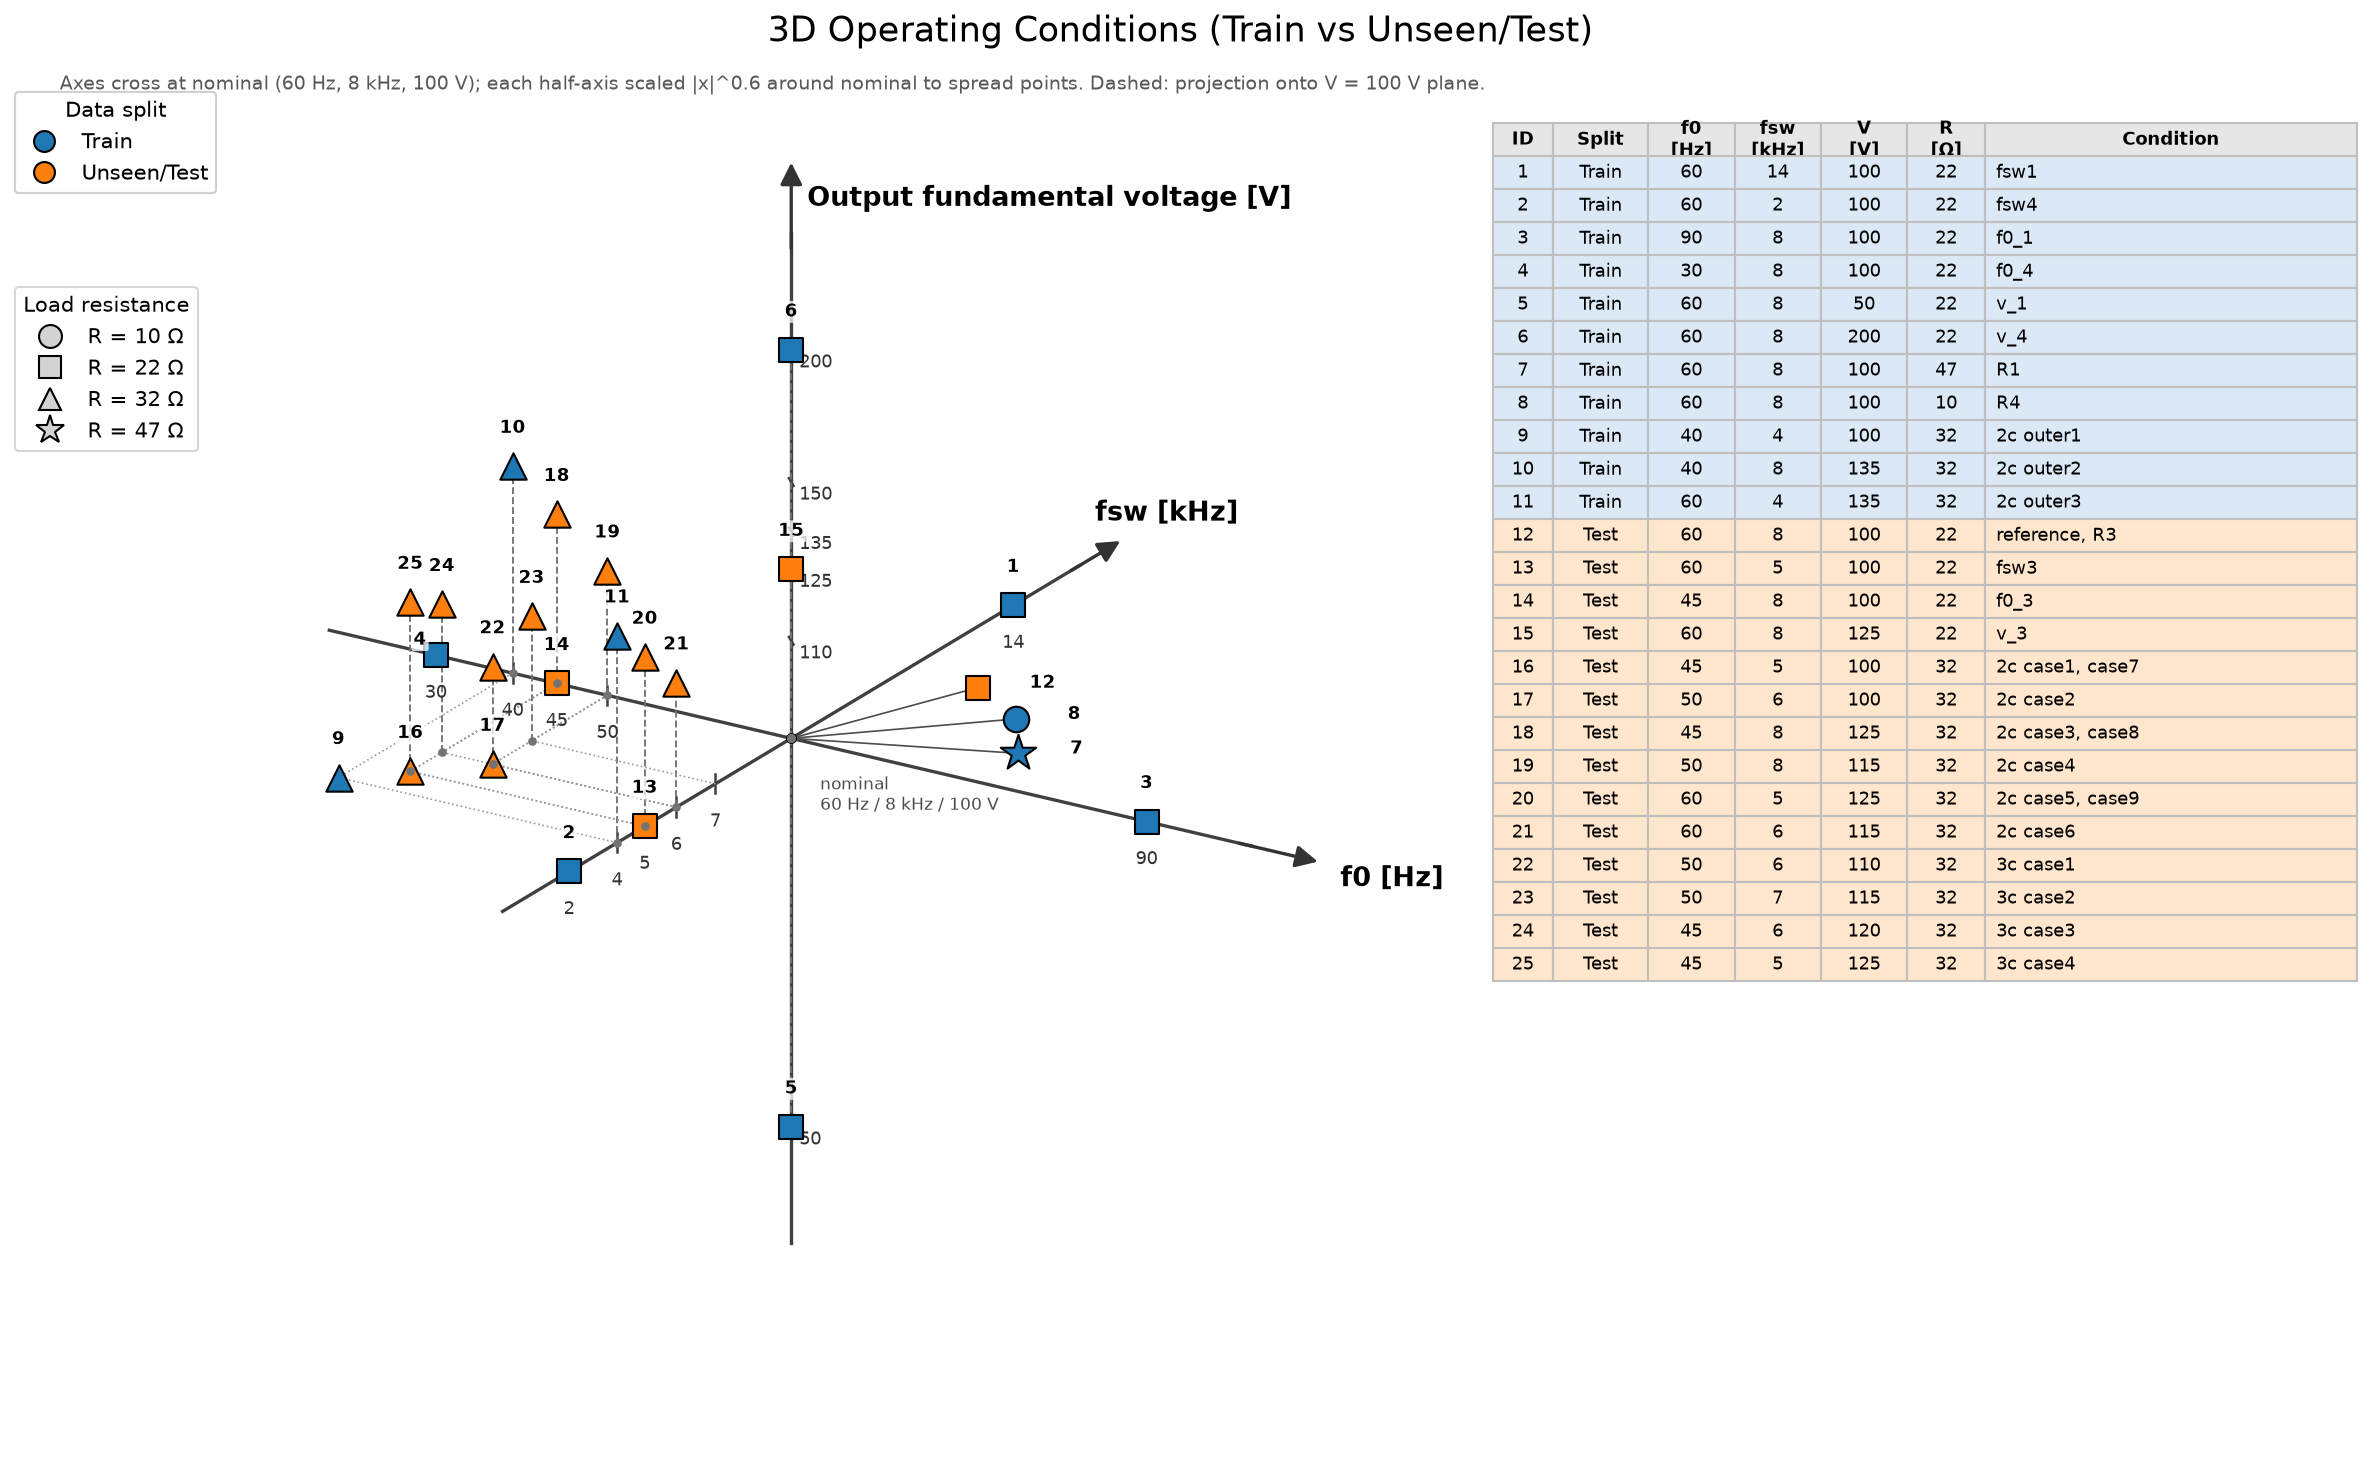
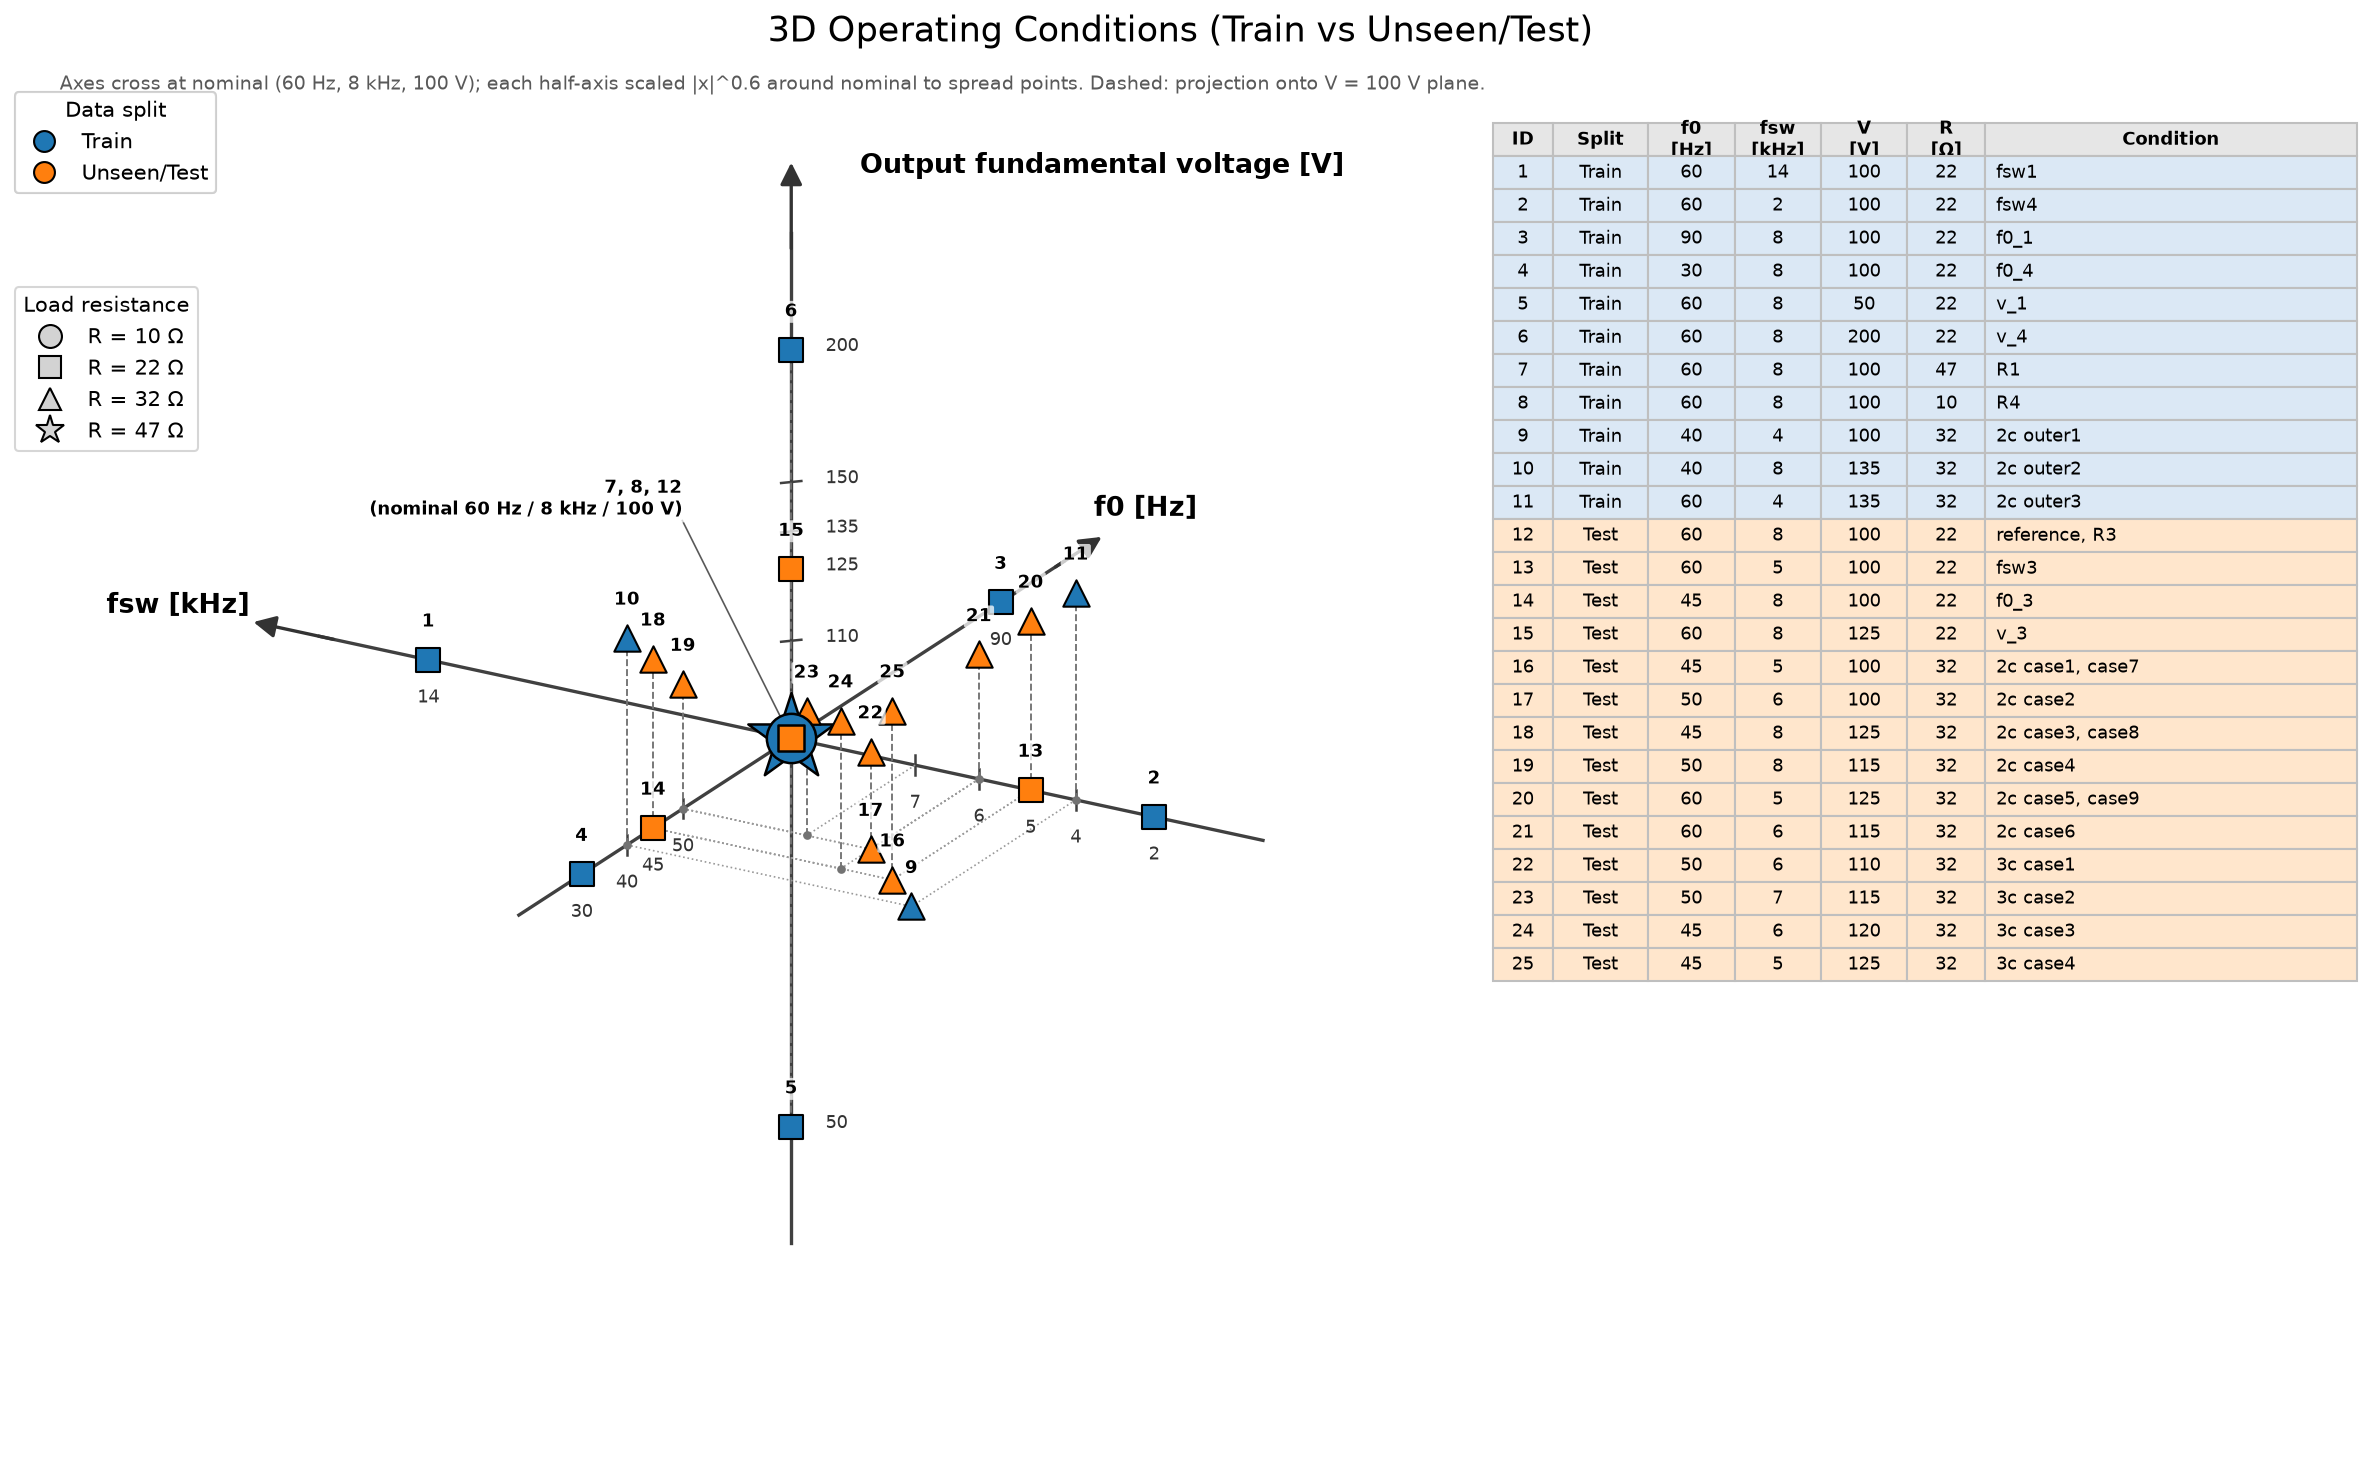
3D condition map: stack nominal points at origin, view from low-f0/low-fsw quadrant
Points 7, 8, 12 (R = 47/10/22 ohm at nominal) are now drawn on top of each
other at the origin with decreasing marker size instead of being fanned
out, and the view is rotated to the f0 = 30 Hz / fsw = 2 kHz side.

Claude-Session: https://claude.ai/code/session_011spFXYcNV3BZ4AwDtwhMgw

diff --git a/workspace/results/plot_operating_conditions_3d.py b/workspace/results/plot_operating_conditions_3d.py
@@ -33,10 +33,10 @@ from mpl_toolkits.mplot3d import proj3d
 # ----------------------------------------------------------------------------
 OUT_PATH = os.path.join(os.path.dirname(os.path.abspath(__file__)), "3d_projection.png")
 SPREAD_GAMMA = 0.6          # 1.0 = linear, < 1 spreads points near nominal
-VIEW_ELEV, VIEW_AZIM = 22, -58
-FAN_SPAN_DEG = (22, 68)      # fan direction range in the f0-fsw plane (empty +f0/+fsw quadrant)
-FAN_RADIUS = 0.55
-LABEL_SIDE = {4: "left"}  # per-ID label position override (default: above)          # offset for coincident points (normalized units)
+VIEW_ELEV, VIEW_AZIM = 22, -150   # viewed from the f0 = 30 Hz / fsw = 2 kHz quadrant
+STACK_SIZES = (1900, 560, 150)    # marker sizes for points sharing one position (back -> front)
+STACK_LABEL_OFFSET = np.array([0.0, 0.30, 0.50])    # label placed in empty space + leader line
+LABEL_SIDE = {}                   # per-ID label position override: "left"/"right" (default: above)
 
 NOMINAL = {"f0": 60.0, "fsw": 8.0, "V": 100.0}          # Hz, kHz, V
 AXIS_RANGE = {"f0": (30.0, 90.0), "fsw": (2.0, 14.0), "V": (50.0, 200.0)}
@@ -49,7 +49,7 @@ AXIS_LABEL = {"f0": "f0 [Hz]", "fsw": "fsw [kHz]", "V": "Output fundamental volt
 
 SPLIT_COLOR = {"Train": "#1f77b4", "Unseen/Test": "#ff7f0e"}
 R_MARKER = OrderedDict([(10, "o"), (22, "s"), (32, "^"), (47, "*")])
-R_SIZE = {10: 150, 22: 130, 32: 160, 47: 320}
+R_SIZE = {10: 150, 22: 130, 32: 160, 47: 320}   # stacking order uses this ranking
 
 # (split, f0 [Hz], fsw [kHz], V [V], R [ohm], group, file keys normal/aged)
 CONDITIONS = [
@@ -118,6 +118,7 @@ def main():
     ax.set_proj_type("ortho")
     ax.view_init(elev=VIEW_ELEV, azim=VIEW_AZIM)
     ax.set_axis_off()
+    ax.computed_zorder = False
 
     L = 1.30  # axis half-length in normalized units (range ends are at +-1)
     lim = 1.42
@@ -154,11 +155,7 @@ def main():
                 ax.text(*(c - 0.075 * perp), f"{tv:g}", fontsize=8.5, color="0.2",
                         ha="center", va="top")
 
-    ax.scatter(0, 0, 0, s=18, color="k", zorder=5)
-    ax.text(0.05, 0.05, -0.1,
-            "nominal\n60 Hz / 8 kHz / 100 V", fontsize=8, color="0.3",
-            ha="left", va="top")
-
+    
     # ---- points -------------------------------------------------------------
     groups = OrderedDict()
     for idx, row in enumerate(CONDITIONS, start=1):
@@ -179,25 +176,34 @@ def main():
         if abs(base[2]) > 1e-9 or (abs(base[0]) > 1e-9 and abs(base[1]) > 1e-9):
             ax.scatter(*base[:2], 0, s=10, color="0.45", zorder=3)
 
-        n = len(members)
-        for k, (idx, (split, _, _, _, r, _, _)) in enumerate(members):
-            pos = base.copy()
-            if n > 1:
-                ang = np.deg2rad(np.linspace(*FAN_SPAN_DEG, n)[k])
-                # fan out in the horizontal f0-fsw plane (keeps V unchanged)
-                pos = base + FAN_RADIUS * np.array([np.cos(ang), np.sin(ang), 0.0])
-                ax.plot(*zip(base, pos), color="0.3", lw=0.8, zorder=4)
-            ax.scatter(*pos, s=R_SIZE[r], marker=R_MARKER[r], color=SPLIT_COLOR[split],
-                       edgecolor="k", linewidth=1.0, depthshade=False, zorder=6)
-            side = "right" if n > 1 else LABEL_SIDE.get(idx, "top")
-            if side == "right":   # fanned points: label beside the marker
-                lpos, ha, va = pos + np.array([0.09, 0.09, 0]), "left", "center"
-            elif side == "left":
-                lpos, ha, va = pos + np.array([-0.07, 0.07, 0]), "right", "center"
-            else:
-                lpos, ha, va = pos + np.array([0, 0, 0.075]), "center", "bottom"
-            ax.text(*lpos, str(idx), fontsize=8.5, fontweight="bold", ha=ha, va=va, zorder=7,
+        if len(members) > 1:
+            members = sorted(members, key=lambda m: -R_SIZE[m[1][4]])
+            # same position: stack at the true point, largest behind -> smallest in front
+            for k, (idx, (split, _, _, _, r, _, _)) in enumerate(members):
+                ax.scatter(*base, s=STACK_SIZES[k], marker=R_MARKER[r], color=SPLIT_COLOR[split],
+                           edgecolor="k", linewidth=1.2, depthshade=False, zorder=6 + k)
+            ids = ", ".join(str(idx) for idx, _ in members)
+            if not base.any():
+                ids += "\n(nominal 60 Hz / 8 kHz / 100 V)"
+            lbl = base + STACK_LABEL_OFFSET
+            ax.plot(*zip(base, lbl), color="0.35", lw=0.8, zorder=5)
+            ax.text(*lbl, ids, fontsize=8.5, fontweight="bold",
+                    ha="right", va="bottom", zorder=10,
                     bbox=dict(boxstyle="round,pad=0.12", fc="white", ec="none", alpha=0.75))
+            continue
+
+        idx, (split, _, _, _, r, _, _) = members[0]
+        ax.scatter(*base, s=R_SIZE[r], marker=R_MARKER[r], color=SPLIT_COLOR[split],
+                   edgecolor="k", linewidth=1.0, depthshade=False, zorder=6)
+        side = LABEL_SIDE.get(idx, "top")
+        if side == "right":
+            lpos, ha, va = base + np.array([0.09, 0.09, 0]), "left", "center"
+        elif side == "left":
+            lpos, ha, va = base + np.array([-0.07, 0.07, 0]), "right", "center"
+        else:
+            lpos, ha, va = base + np.array([0, 0, 0.075]), "center", "bottom"
+        ax.text(*lpos, str(idx), fontsize=8.5, fontweight="bold", ha=ha, va=va, zorder=7,
+                bbox=dict(boxstyle="round,pad=0.12", fc="white", ec="none", alpha=0.75))
 
     # ---- legends --------------------------------------------------------------
     split_handles = [Line2D([], [], marker="o", ls="", markersize=10, markerfacecolor=c,

diff --git a/context/research-log.md b/context/research-log.md
@@ -21,5 +21,5 @@
 ## 2026-09-30 — train80.py 운전조건 3D 분포도 수정
 - 요청: Train/Unseen 운전조건 3D projection 그림의 축 화살표 방향 수정 + 조건 위치 구분되게 펼치기
 - Skill: (없음, matplotlib 작도)
-- 결과: `workspace/results/plot_operating_conditions_3d.py` → `3d_projection.png`. 축은 nominal(60 Hz/8 kHz/100 V)에서 교차, 증가 방향 끝에만 화살표; half-axis |x|^0.6 스케일로 중심부 확장(SPREAD_GAMMA=1.0 이면 선형); 동일 좌표(R 10/22/47 Ω) 점은 부채꼴로 분리 + 리더선; 점 ID ↔ 우측 조건표
+- 결과: `workspace/results/plot_operating_conditions_3d.py` → `3d_projection.png`. 축은 nominal(60 Hz/8 kHz/100 V)에서 교차, 증가 방향 끝에만 화살표; half-axis |x|^0.6 스케일로 중심부 확장(SPREAD_GAMMA=1.0 이면 선형); nominal 의 R 10/22/47 Ω 점(ID 7, 8, 12)은 원점에 크기를 달리해 겹쳐 표시(큰 것이 뒤); 시점은 f0=30 Hz·fsw=2 kHz 사분면 쪽(azim −150°); 점 ID ↔ 우측 조건표
 - 한계: 원래 plot 코드는 받지 못해 train80.py 조건 목록으로 재작성. 1조건 파일은 코드에 R 값이 없어 R1=47, R4=10, 나머지=22 Ω 로 가정 (사용자 설명·기존 그림 기준)
